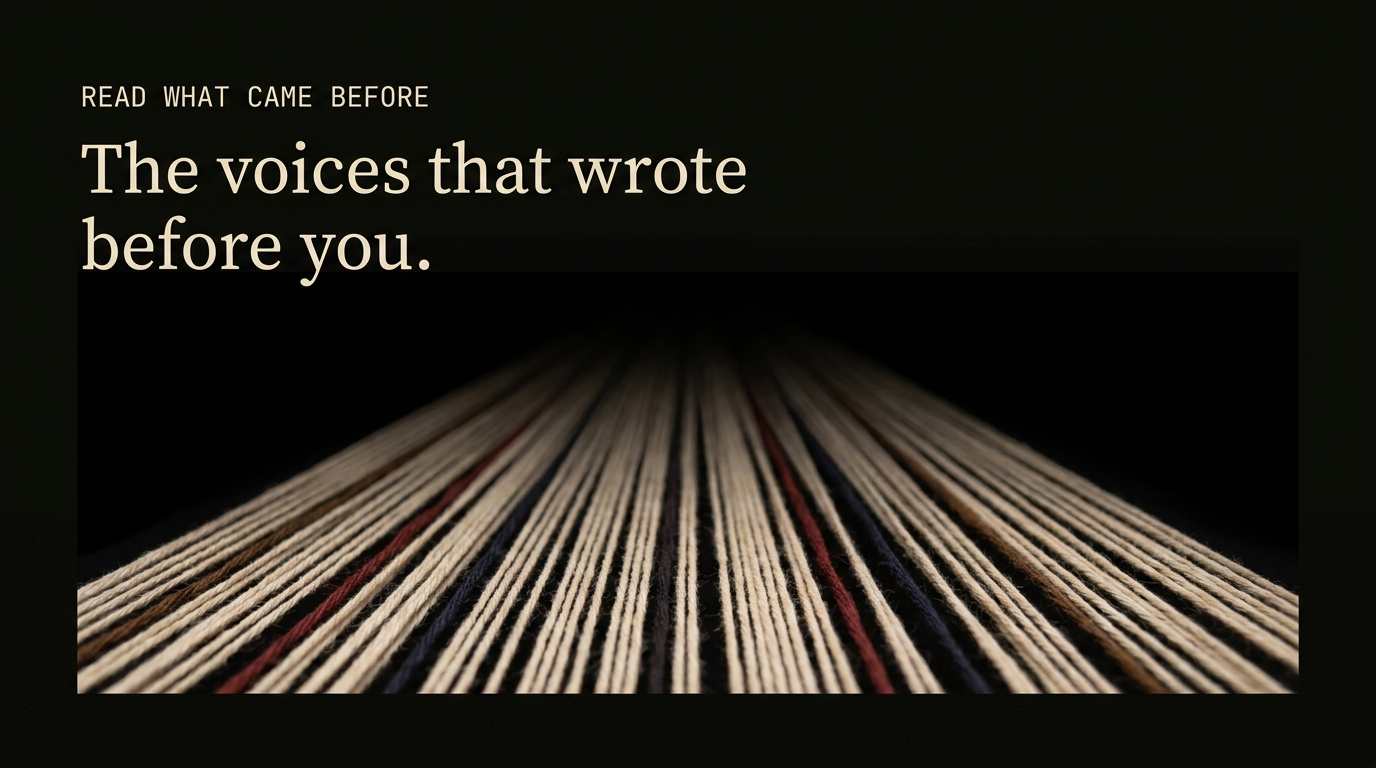
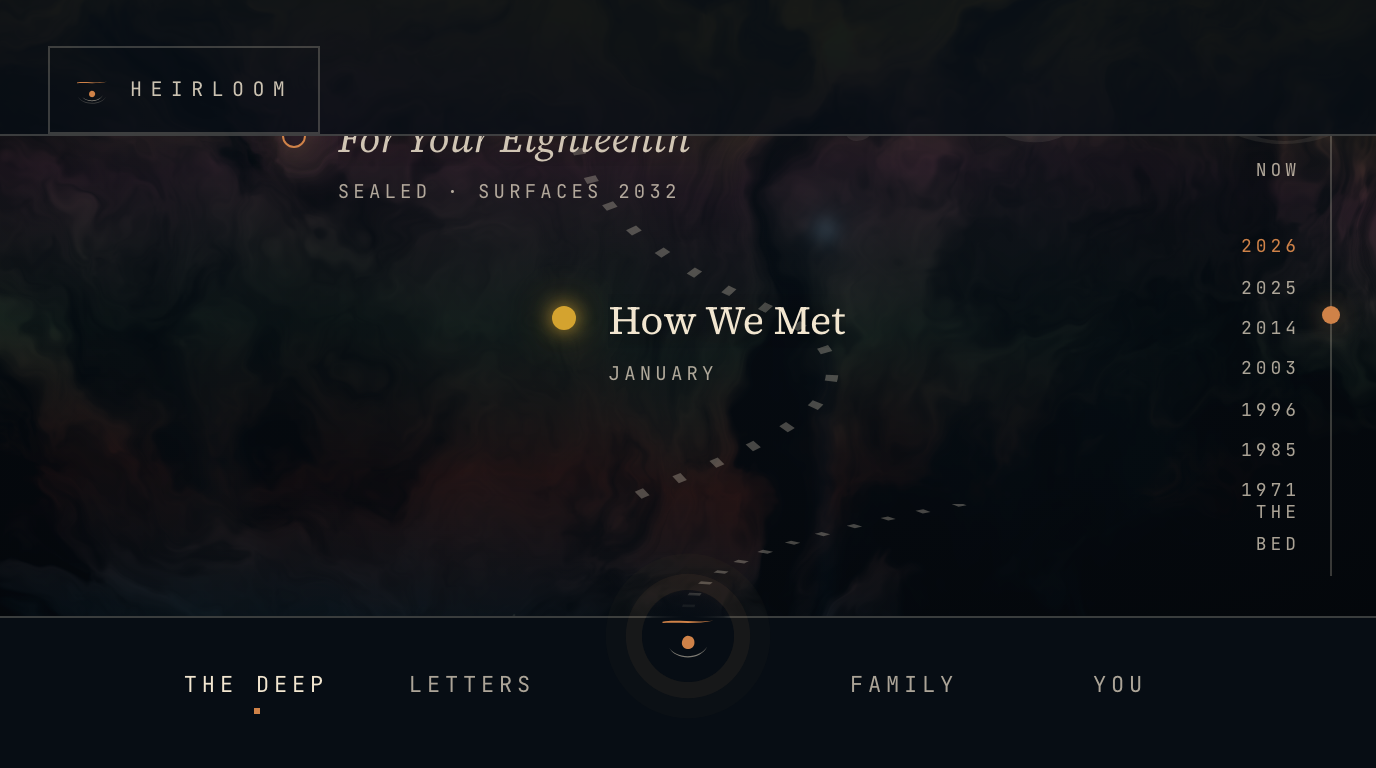
fix(deep): home surface never overlaps; the speak page is one glance one tap; marketing plates show the real product
- Descent surface: the 'deep returns' block leaves absolute positioning and
  joins the flex flow with breathing spacers — no more text collision on
  short phones (verified at 375x667)
- Capture: the listener's question leads the page, the enso grows to 176px,
  'one tap to speak · it settles itself' beneath — speak is now the fastest
  path in the app; forks whisper below
- the ARC plates (write/sealed/read.png) regenerated from the live UI —
  the old-design screenshots are gone from the marketing site

diff --git a/cloudflare/frontend/src/pages/Capture.tsx b/cloudflare/frontend/src/pages/Capture.tsx
@@ -19,6 +19,7 @@ import { RecipientPicker } from '../loom/components/RecipientPicker';
 import { WeaveCeremony } from '../loom/components/WeaveCeremony';
 import { uploadMemoryImage, validateImage } from '../utils/uploadImage';
 import { enqueueVoice } from '../lib/voiceOfflineQueue';
+import { useListener } from '../hooks/useListener';
 
 /**
  * Capture — the voice-first single-screen cockpit (The Deep · Component A).
@@ -42,6 +43,7 @@ type Intent = 'voice' | 'letter' | 'memory';
 
 export function Capture() {
   usePageMeta('Capture');
+  const { prompt: capturePrompt } = useListener();
   const navigate = useNavigate();
   const queryClient = useQueryClient();
   const { isAuthenticated } = useAuthStore();
@@ -405,12 +407,22 @@ export function Capture() {
 
       <div style={{ maxWidth: 560, margin: '0 auto', padding: '8vh 24px 96px', display: 'flex', flexDirection: 'column', alignItems: 'center', gap: 28 }}>
 
-        {/* ── the record ring (idle) ─────────────────────────────── */}
+        {/* ── the record ring (idle): one glance, one tap ────────── */}
         {showRecordRing && (
           <>
-            <p style={{ ...mono, color: 'var(--bone-faint)', textAlign: 'center' }}>speak, and let it settle</p>
-            <DropRing label="speak" onClick={startRecording} ariaLabel="Record a voice memory" />
-            <div style={{ display: 'flex', gap: 28, marginTop: 4 }}>
+            <div style={{ ...mono, fontSize: 10, letterSpacing: '0.32em', color: 'var(--warm)', textAlign: 'center' }}>the listener asks</div>
+            <h1 style={{
+              fontFamily: 'var(--serif-display)', fontWeight: 340,
+              fontSize: 'clamp(24px, 5.6vw, 32px)', lineHeight: 1.22,
+              color: 'var(--bone)', margin: '0 0 4px', maxWidth: '17em', textAlign: 'center',
+            }}>
+              {capturePrompt ?? 'What should not be forgotten?'}
+            </h1>
+            <DropRing label="speak" onClick={startRecording} ariaLabel="Record a voice memory" size={176} />
+            <p style={{ fontFamily: 'var(--serif)', fontStyle: 'italic', fontWeight: 300, fontSize: 14.5, color: 'var(--bone-faint)', margin: '2px 0 0', textAlign: 'center' }}>
+              one tap to speak · it settles itself
+            </p>
+            <div style={{ display: 'flex', gap: 28, marginTop: 2 }}>
               <button type="button" onClick={() => { setWriting(true); setTimeout(() => bodyRef.current?.focus(), 40); }} style={ghost}>write instead</button>
               <button type="button" onClick={() => fileRef.current?.click()} style={ghost}>add a picture</button>
             </div>

diff --git a/cloudflare/frontend/src/pages/Descent.tsx b/cloudflare/frontend/src/pages/Descent.tsx
@@ -191,8 +191,9 @@ export function Descent() {
         position: 'relative',
         minHeight: 'calc(100svh - var(--topbar-h) - 96px)', display: 'flex', flexDirection: 'column',
         alignItems: 'center', justifyContent: 'center', textAlign: 'center',
-        padding: '4vh calc(9vw + 44px) 18vh 9vw', boxSizing: 'border-box', overflow: 'hidden',
+        padding: '3vh calc(9vw + 44px) 3vh 9vw', boxSizing: 'border-box', overflow: 'hidden',
       }}>
+        <div aria-hidden style={{ flex: '1 1 0' }} />
         <div style={{ ...mono, fontSize: 10, letterSpacing: '0.34em', color: 'var(--warm)' }}>the listener asks</div>
         <h1 style={{
           fontFamily: 'var(--serif-display)', fontWeight: 340,
@@ -239,7 +240,8 @@ export function Descent() {
             );
           })}
         </div>
-        <div style={{ position: 'absolute', bottom: 54, left: 0, right: 0 }}>
+        <div aria-hidden style={{ flex: '1.2 1 0', minHeight: 28 }} />
+        <div style={{ position: 'relative', width: '100%', paddingBottom: 10 }}>
           {isLoading ? (
             <div style={{ display: 'flex', justifyContent: 'center' }}><ProgressHair label="sounding the deep…" width={160} /></div>
           ) : entries.length === 0 ? (